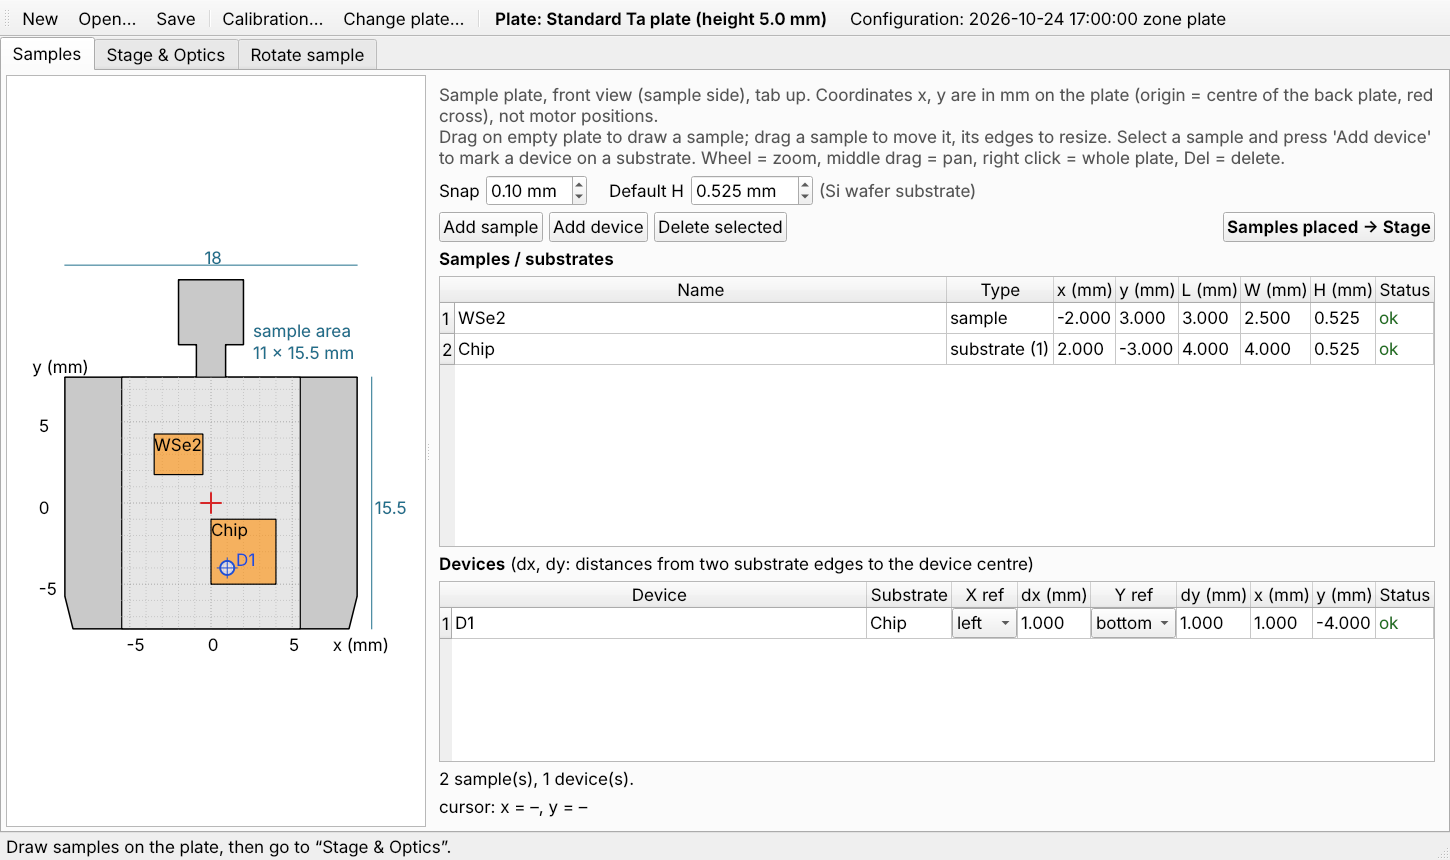
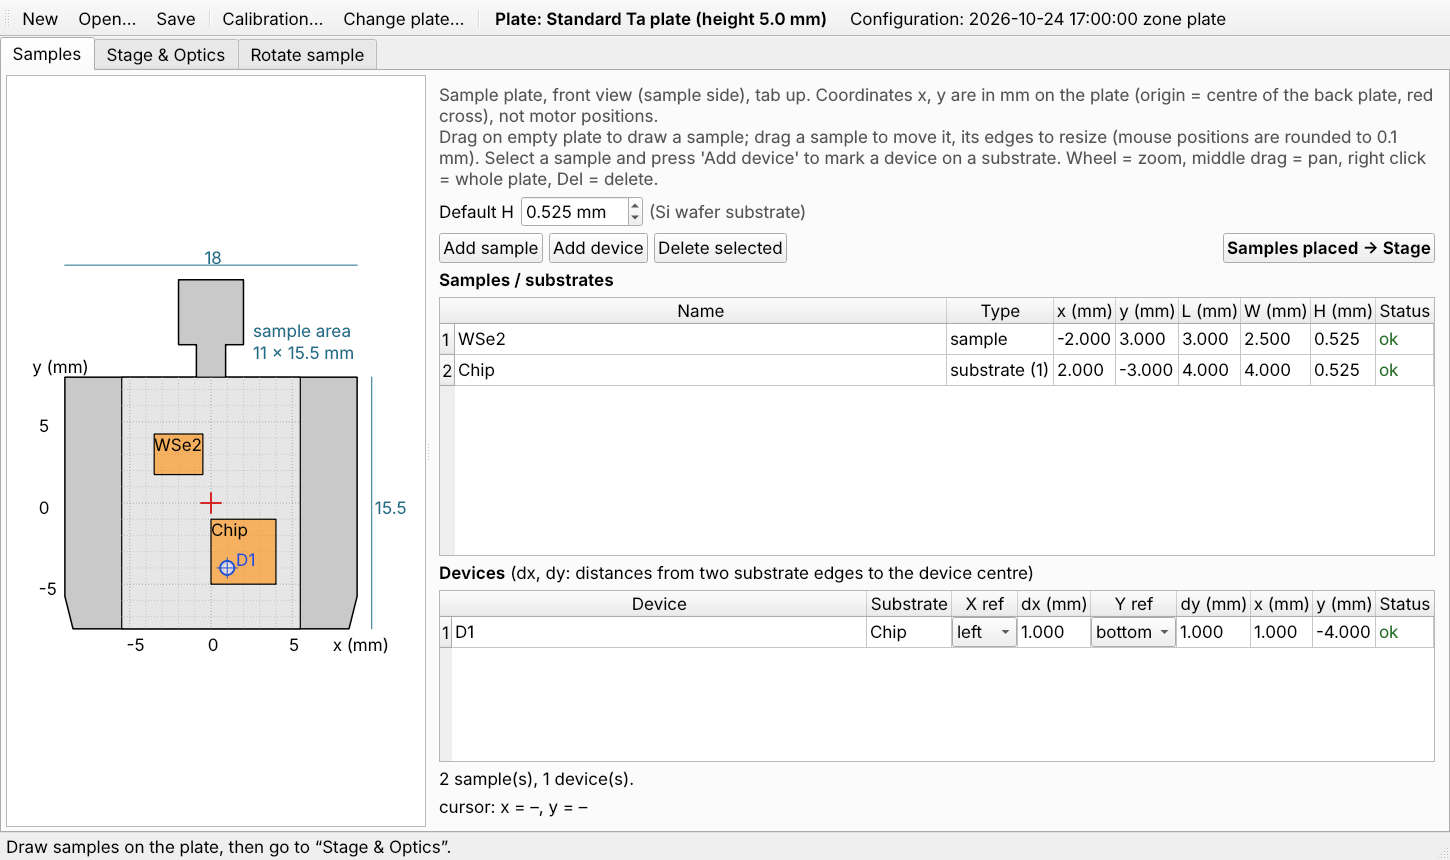
Fixed 0.1 mm snap; Rotate tab corrects onto the analyzer focus
- Samples tab: remove the Snap box, mouse positions are always rounded to 0.1 mm
- Rotate tab: the SN-kept solution is judged by the point's distance from the
  analyzer focus (model); "Correct SN" now moves SN, ST, SZ and the optic so
  the point is on the analyzer focus, clamped to the motor ranges (closest
  reachable position, with the remaining distance shown)
- relocate(): optional motor limits, focus distances in the result

Claude-Session: https://claude.ai/code/session_01JSyDRM4ZQA5Z6ppa2Dxicd

Changed region(s): [[0.2793, 0.1512, 0.9931, 0.4535], [0.2793, 0.6349, 0.9931, 0.7558]]

diff --git a/quickalignment/ui/rotation_panel.py b/quickalignment/ui/rotation_panel.py
@@ -4,8 +4,9 @@
    beam and in focus, and the optic (zone plate / capillary) position there;
 2. the wanted SRn, SRz;
 3. the new ST / SZ with the piezo centred (PIX = PIY = 150 µm) and SN kept,
-   with how far the beam spot then moves along the beam (out of the analyzer
-   focus); optionally SN is corrected so the point stays where it was.
+   with how far the point then is from the analyzer focus; optionally SN, ST,
+   SZ and the optic are corrected to put the point on the analyzer focus (or
+   as close as the motor ranges allow).
 """
 
 from __future__ import annotations
@@ -16,7 +17,8 @@ from ..rotation import relocate
 
 Qt = QtCore.Qt
 
-SPOT_SHIFT_WARNING = 0.05  # mm along the beam
+FOCUS_WARNING = 0.05  # mm from the analyzer focus
+LIMITS = {name: MOTOR_SPECS[name][1:3] for name in ("st", "sn", "sz")}
 
 
 class RotationPanel(QtWidgets.QWidget):
@@ -67,9 +69,10 @@ class RotationPanel(QtWidgets.QWidget):
         self.result_label.setStyleSheet("font-size: 13px; padding: 6px; background: #f6f6f6; border: 1px solid #ddd;")
         self.focus_label = QtWidgets.QLabel()
         self.focus_label.setWordWrap(True)
-        self.correct_sn = QtWidgets.QCheckBox("Correct SN (keep the point where it is now along the beam)")
-        self.correct_sn.setToolTip("Off (default): SN stays, the optic refocuses.\n"
-                                   "On: SN, ST and SZ move so the point stays in the analyzer focus; the optic stays.")
+        self.correct_sn = QtWidgets.QCheckBox("Correct SN (put the point on the analyzer focus)")
+        self.correct_sn.setToolTip("Off (default): SN stays, ST / SZ keep the point on the beam, the optic refocuses.\n"
+                                   "On: SN, ST, SZ and the optic move so the point is on the analyzer focus\n"
+                                   "(absolute: relies on the configuration's ST0 / SZ0 / SN_f and rotation axes).")
         self.correct_sn.toggled.connect(self._show)
         self.corrected_label = QtWidgets.QLabel()
         self.corrected_label.setWordWrap(True)
@@ -119,10 +122,11 @@ class RotationPanel(QtWidgets.QWidget):
     def compute(self) -> None:
         model, layout, m = self.stage.model(), self._layout_getter(), self.measured.value()
         args = (model, layout, m, self.new_srn.value(), self.new_srz.value(), self.stage.calibration(),
-                self.measured_optic.value(), True, False, self._height_getter())
+                self.measured_optic.value())
+        common = dict(recentre_piezo=True, default_height=self._height_getter())
         try:
-            self.result = relocate(*args, keep_sn=True)
-            self.corrected = relocate(*args, keep_sn=False)
+            self.result = relocate(*args, keep_sn=True, **common)
+            self.corrected = relocate(*args, to_analyzer_focus=True, limits=LIMITS, **common)
         except ValueError as exc:
             self.result = self.corrected = None
             self.result_label.setText(f"<b>{exc}</b>")
@@ -130,12 +134,6 @@ class RotationPanel(QtWidgets.QWidget):
             return
         self._show()
 
-    def spot_shift(self) -> float | None:
-        """How far the beam spot moves along the beam with SN kept (mm, + = downstream)."""
-        r = self.result
-        model, w = self.stage.model(), r.uvw[2]
-        old, new = model.beam_hit(r.measured, w), model.beam_hit(r.new, w)
-        return None if old is None or new is None else float(new[1] - old[1])
 
     def _table(self, r, names) -> str:
         rows = []
@@ -164,20 +162,21 @@ class RotationPanel(QtWidgets.QWidget):
             f"At SRn = {r.new.srn:.3f}°, SRz = {r.new.srz:.3f}°, PIX = PIY = {pi:g} µm, SN kept:"
             + self._table(r, ("st", "sz", "sn")) + f"Point: <b>{r.target}</b> (plate x = {u:.3f}, y = {v:.3f} mm)."
         )
-        shift = self.spot_shift()
-        if shift is None:
-            self.focus_label.setText("")
+        text = (f"With SN kept the point is {r.focus_distance * 1000:.0f} µm from the analyzer focus "
+                f"(now: {r.measured_focus_distance * 1000:.0f} µm, model); the optic refocuses on it.")
+        if r.focus_distance > FOCUS_WARNING:
+            text = (f"<span style='color:#b00'><b>{text}</b> Too far from the analyzer focus, the data would be "
+                    "distorted: correct SN?</span>")
         else:
-            text = (f"With SN kept the beam spot moves {abs(shift) * 1000:.0f} µm "
-                    f"{'downstream' if shift > 0 else 'upstream'} along the beam, i.e. out of the analyzer focus "
-                    "(the optic refocuses on it).")
-            if abs(shift) > SPOT_SHIFT_WARNING:
-                text = f"<span style='color:#b00'><b>{text}</b> This is far from the analyzer focus: correct SN?</span>"
-            else:
-                text = f"<span style='color:#207020'>{text} Small: no SN correction needed.</span>"
-            self.focus_label.setText(text)
+            text = f"<span style='color:#207020'>{text} Close enough: no SN correction needed.</span>"
+        self.focus_label.setText(text)
         c = self.corrected
-        self.corrected_label.setText("With SN corrected (the point stays where it is now along the beam):"
+        if c.focus_distance < 1e-4:
+            where = "on the analyzer focus"
+        else:
+            where = (f"<span style='color:#b00'><b>closest reachable position: {c.focus_distance * 1000:.0f} µm "
+                     "from the analyzer focus</b> (motor range)</span>")
+        self.corrected_label.setText(f"With SN corrected, the point is {where}:"
                                      + self._table(c, ("st", "sz", "sn")))
 
     def chosen(self):

diff --git a/quickalignment/ui/plate_editor.py b/quickalignment/ui/plate_editor.py
@@ -40,6 +40,7 @@ FIELDS = [None, None, "u", "v", "length", "width", "height", None]
 DEV_COLUMNS = ["Device", "Substrate", "X ref", "dx (mm)", "Y ref", "dy (mm)", "x (mm)", "y (mm)", "Status"]
 DEV_EDITABLE = {0, 3, 5, 6, 7}
 MIN_SIZE = 0.1  # mm
+SNAP_STEP = 0.1  # mm; mouse drawing / moving / resizing is rounded to this grid (typed values are not)
 SI_WAFER_THICKNESS = 0.525  # mm, standard 100 mm (4") Si wafer, the usual device substrate
 
 
@@ -408,15 +409,6 @@ class PlateEditor(QtWidgets.QWidget):
         self.dev_table.itemChanged.connect(self._on_dev_table_edit)
         self.dev_table.itemSelectionChanged.connect(self._on_dev_table_selection)
 
-        self.snap_box = QtWidgets.QDoubleSpinBox()
-        self.snap_box.setRange(0.0, 2.0)
-        self.snap_box.setSingleStep(0.05)
-        self.snap_box.setDecimals(2)
-        self.snap_box.setValue(0.1)
-        self.snap_box.setSuffix(" mm")
-        self.snap_box.setToolTip("Mouse drawing / moving / resizing jumps in steps of this size,\n"
-                                 "so edges land on round values (0 = off). Typed values are not rounded.")
-
         self.height_box = QtWidgets.QDoubleSpinBox()
         self.height_box.setRange(0.0, 20.0)
         self.height_box.setSingleStep(0.1)
@@ -425,8 +417,7 @@ class PlateEditor(QtWidgets.QWidget):
         self.height_box.setSuffix(" mm")
         self.height_box.setToolTip("Height H given to newly drawn samples. Default: Si wafer substrate, "
                                    f"{SI_WAFER_THICKNESS * 1000:.0f} µm (standard 100 mm wafer).")
-        for b in (self.snap_box, self.height_box):
-            b.setMaximumWidth(b.sizeHint().width())
+        self.height_box.setMaximumWidth(self.height_box.sizeHint().width())
 
         add_btn = QtWidgets.QPushButton("Add sample")
         add_btn.clicked.connect(self.add_default_sample)
@@ -446,9 +437,6 @@ class PlateEditor(QtWidgets.QWidget):
         self.cursor_label = QtWidgets.QLabel("cursor: x = –, y = –")
 
         form = QtWidgets.QHBoxLayout()
-        form.addWidget(QtWidgets.QLabel("Snap"))
-        form.addWidget(self.snap_box)
-        form.addSpacing(16)
         form.addWidget(QtWidgets.QLabel("Default H"))
         form.addWidget(self.height_box)
         si = QtWidgets.QLabel("(Si wafer substrate)")
@@ -464,7 +452,8 @@ class PlateEditor(QtWidgets.QWidget):
         help_text = QtWidgets.QLabel(
             "Sample plate, front view (sample side), tab up. Coordinates x, y are in mm on the plate "
             "(origin = centre of the back plate, red cross), not motor positions.\n"
-            "Drag on empty plate to draw a sample; drag a sample to move it, its edges to resize. "
+            "Drag on empty plate to draw a sample; drag a sample to move it, its edges to resize "
+            "(mouse positions are rounded to 0.1 mm). "
             "Select a sample and press 'Add device' to mark a device on a substrate. "
             "Wheel = zoom, middle drag = pan, right click = whole plate, Del = delete."
         )
@@ -549,7 +538,7 @@ class PlateEditor(QtWidgets.QWidget):
 
     # -- model operations ----------------------------------------------------
     def snap_step(self) -> float:
-        return self.snap_box.value()
+        return SNAP_STEP
 
     def default_height(self) -> float:
         return self.height_box.value()

diff --git a/quickalignment/rotation.py b/quickalignment/rotation.py
@@ -201,6 +201,13 @@ class Relocation:
     optic_measured: float
     optic_new: float | None
     optic_source: str
+    focus_distance: float = 0.0  # mm, model distance of the point from the analyzer focus at the new position
+    measured_focus_distance: float = 0.0  # ... at the measured position
+
+
+def focus_distance(model: StageModel, m: MotorPositions, u: float, v: float, w: float) -> float:
+    """Distance (mm) of plate point (u, v, w) from the analyzer focus (lab origin)."""
+    return float(np.linalg.norm(model.plate_to_lab(m, u, v, w)))
 
 
 def relocate(
@@ -215,6 +222,7 @@ def relocate(
     to_analyzer_focus: bool = False,
     default_height: float = 0.0,
     keep_sn: bool = False,
+    limits: dict[str, tuple[float, float]] | None = None,
 ) -> Relocation:
     """Stage positions putting the measured sample point back on the beam after rotating to (srn, srz).
 
@@ -227,6 +235,10 @@ def relocate(
     is how the stage is usually run (SN fixed in the analyzer focal plane).
     `measured_optic`: the optic position at which the measurement was in
     focus (e.g. Motor.ZP_ZS); None uses the configuration's optics reference.
+    `limits`: travel ranges {"st"|"sn"|"sz": (lo, hi)}. ST, SN, SZ move along
+    orthonormal directions, so clamping each one gives the reachable position
+    closest to the wanted one (with `to_analyzer_focus`: closest to the focus);
+    `focus_distance` tells what is left.
     """
     hit, uv, w, target = beam_on_layout(model, measured, layout)
     if hit is None or not any(target.split("/")[0] == s.name for s in layout.samples):
@@ -251,6 +263,8 @@ def relocate(
         d_sn = measured.sn - new.sn
         new.sn += d_sn
         new.st -= d_sn
+    for name, (lo, hi) in (limits or {}).items():
+        setattr(new, name, float(min(max(getattr(new, name), lo), hi)))
 
     if measured_optic is not None:
         ref = replace(optics, enabled=True, motors=measured, surface_w=w, optic_position=measured_optic)
@@ -260,7 +274,8 @@ def relocate(
     optic_measured = ref.position_for_focus(model, float(hit[1]))
     new_hit = model.beam_hit(new, w)
     optic_new = None if new_hit is None else ref.position_for_focus(model, float(new_hit[1]))
-    return Relocation(measured, new, (u, v, w), target, optic_measured, optic_new, source)
+    return Relocation(measured, new, (u, v, w), target, optic_measured, optic_new, source,
+                      focus_distance(model, new, u, v, w), focus_distance(model, measured, u, v, w))
 
 
 @dataclass
@@ -306,5 +321,5 @@ def fit_srn_axis(model: StageModel, positions: list[MotorPositions], w: float) -
 
 __all__ = [
     "AnalyzerGeometry", "AxisFit", "RotationCandidate", "fit_srn_axis", "Relocation", "SLIT_ORIENTATIONS", "align_direction",
-    "analyzer_angles", "emission_in_plate", "emission_lab", "onto_line", "relocate", "to_center", "wrap180",
+    "analyzer_angles", "emission_in_plate", "emission_lab", "focus_distance", "onto_line", "relocate", "to_center", "wrap180",
 ]

diff --git a/tests/test_plate_editor.py b/tests/test_plate_editor.py
@@ -372,41 +372,41 @@ def test_initial_calibration_window(tmp_path):
 
 
 def test_rotation_tab(window):
-    from quickalignment.stage import MotorPositions
-
     win = window
     win.editor.set_layout(win.editor.layout_model.__class__(samples=[Sample("WSe2", length=6, width=6, height=0.2)]))
     panel = win.rotation
     st = win.stage
     st.record = replace(st.record, config=replace(st.record.config, srn_axis_u=1.2, srn_axis_v=-1.0, srz_offset_n=10.0))
-    panel.measured.set_value(MotorPositions(st=0.3, sz=40.2, sn=0.2, srn=120, srz=0, pix=100, piy=200))
+    # a point of the sample on the analyzer focus, piezo off centre
+    panel.measured.set_value(st.model().motors_for_target(0.3, -0.2, 5.2, srn=120, srz=0, pix=100, piy=200))
     panel.measured_optic.setValue(-5.5)
     assert panel.optic_label.text() == "Zone plate position"
 
-    # SRn only: the surface plane stays, so SN needs no correction
+    # SRn only: the surface plane stays, the point stays on the analyzer focus
     panel.new_srn.setValue(150.0)
     panel.compute()
     r = panel.result
     assert r.target == "WSe2" and (r.new.pix, r.new.piy) == (150, 150)
-    assert r.new.sn == pytest.approx(0.2) and abs(panel.spot_shift()) < 1e-9
+    assert r.new.sn == pytest.approx(r.measured.sn) and r.focus_distance < 1e-6
     assert "no SN correction needed" in panel.focus_label.text()
     assert not panel.correct_sn.isChecked()
 
-    # SRz with the axis ~10 mm behind the surface: the spot leaves the analyzer focus
+    # SRz with the axis ~10 mm behind the surface: with SN kept the point leaves the analyzer focus
     panel.new_srz.setValue(5.0)
     panel.compute()
-    assert panel.result.new.sn == pytest.approx(0.2) and abs(panel.spot_shift()) > 0.05
+    r = panel.result
+    assert r.new.sn == pytest.approx(r.measured.sn) and r.focus_distance > 0.05
     assert "correct SN?" in panel.focus_label.text()
     panel.send_to_stage()
-    assert st.motors.value().st == pytest.approx(panel.result.new.st, abs=1e-4) and st.motors.value().sn == pytest.approx(0.2)
-    assert st.optic_pos.value() == pytest.approx(panel.result.optic_new, abs=1e-4)
+    assert st.motors.value().st == pytest.approx(r.new.st, abs=1e-4) and st.motors.value().sn == pytest.approx(r.new.sn)
+    assert st.optic_pos.value() == pytest.approx(r.optic_new, abs=1e-4)
 
+    # corrected: SN, ST, SZ put the point on the analyzer focus, the optic focuses there (as when measured)
     panel.correct_sn.setChecked(True)
     c = panel.corrected
-    assert c.new.sn != pytest.approx(0.2)
-    model = st.model()
-    w = c.uvw[2]
-    assert model.beam_hit(c.new, w)[1] == pytest.approx(model.beam_hit(c.measured, w)[1])
+    assert c.focus_distance < 1e-6 and abs(c.new.sn - r.measured.sn) > 1e-3
+    assert c.optic_new == pytest.approx(-5.5)
+    assert "on the analyzer focus" in panel.corrected_label.text()
     panel.send_to_stage()
     assert st.motors.value().sn == pytest.approx(c.new.sn, abs=1e-4)
 

diff --git a/tests/test_rotation.py b/tests/test_rotation.py
@@ -187,3 +187,18 @@ def test_starting_configuration_zone_plate_reference():
     assert rel.optic_measured == pytest.approx(53.21985, abs=1e-3)
     assert rel.optic_new == pytest.approx(53.21985, abs=1e-3)  # SRn keeps the surface plane
     assert rel.new.st == pytest.approx(second.st, abs=2e-3) and rel.new.sz == pytest.approx(second.sz, abs=2e-3)
+
+
+def test_relocate_to_focus_within_motor_limits():
+    model = StageModel(StageConfig(srz_offset_n=10.0))
+    measured = model.motors_for_target(0.5, 1.0, 5.5, srn=120, srz=0)
+    free = relocate(model, SampleLayout(), measured, 140.0, 6.0, OpticsCalibration(), to_analyzer_focus=True,
+                    default_height=0.5)
+    assert free.focus_distance < 1e-9 and free.measured_focus_distance < 1e-9
+    # SN cannot reach: ST, SN, SZ are orthonormal, so clamping SN alone is the closest reachable position
+    limits = {"sn": (-10.0, free.new.sn - 0.03)}
+    near = relocate(model, SampleLayout(), measured, 140.0, 6.0, OpticsCalibration(), to_analyzer_focus=True,
+                    default_height=0.5, limits=limits)
+    assert near.new.sn == pytest.approx(free.new.sn - 0.03)
+    assert (near.new.st, near.new.sz) == pytest.approx((free.new.st, free.new.sz))
+    assert near.focus_distance == pytest.approx(0.03)

diff --git a/README.md b/README.md
@@ -38,7 +38,7 @@ y up, front view (sample side) with the tab up), not motor positions; the plate 
   reference edges (left/right, bottom/top) and the distances dx, dy from them to the device centre,
   or drag the blue marker. Devices follow their substrate when it is moved.
 - gating plate: only the 11 × 10.5 mm area above the contact block takes samples
-- *Snap*: mouse drawing / moving / resizing jumps in steps of this size (0 = off); typed values are not rounded.
+- mouse drawing / moving / resizing is rounded to 0.1 mm; typed values are not rounded.
   *Default H*: height given to new samples, by default a Si wafer substrate (0.525 mm, standard 100 mm wafer).
 - *Status* column: `ok`, or what is wrong with the placement (outside the sample area / substrate, overlapping).
 - wheel = zoom, middle drag = pan, right click = whole plate again
@@ -71,9 +71,12 @@ Gives the stage positions that keep a sample point on the beam when the sample i
 2. **Wanted angles**: the new SRn and SRz.
 3. **New position**: *Compute new position* gives ST and SZ for these angles with the piezo centred
    (PIX = PIY = 150 µm) and SN unchanged (default), and the optic position that refocuses. Below, it says how far
-   the beam spot then moves along the beam, i.e. out of the analyzer focus (red above 50 µm: SRn alone keeps the
-   surface plane, SRz does not). Ticking *Correct SN* shows the SN, ST and SZ that keep the point where it was along
-   the beam instead. *Send to Stage & Optics tab* takes the shown solution.
+   the point then is from the analyzer focus (model; red above 50 µm, where the data would be distorted: SRn alone
+   keeps the surface plane, SRz does not). Ticking *Correct SN* shows the SN, ST, SZ and optic position that put the
+   point on the analyzer focus (absolute: relies on ST0 / SZ0 / SN_f and the rotation axes of the configuration).
+   If a motor range does not allow it, the closest reachable position is given with its distance from the focus
+   (ranges: `MOTOR_SPECS` in `quickalignment/ui/stage_panel.py`). *Send to Stage & Optics tab* takes the shown
+   solution.
 
 The SRn axis position on the plate comes from the configuration (`configs/calibration_2026-10-24_170000_zone_plate.json`:
 standard plate, zone plate data WWS2 2025-10-01/02, 2.38 mm from the axis). The SRz axis is not calibrated yet for
